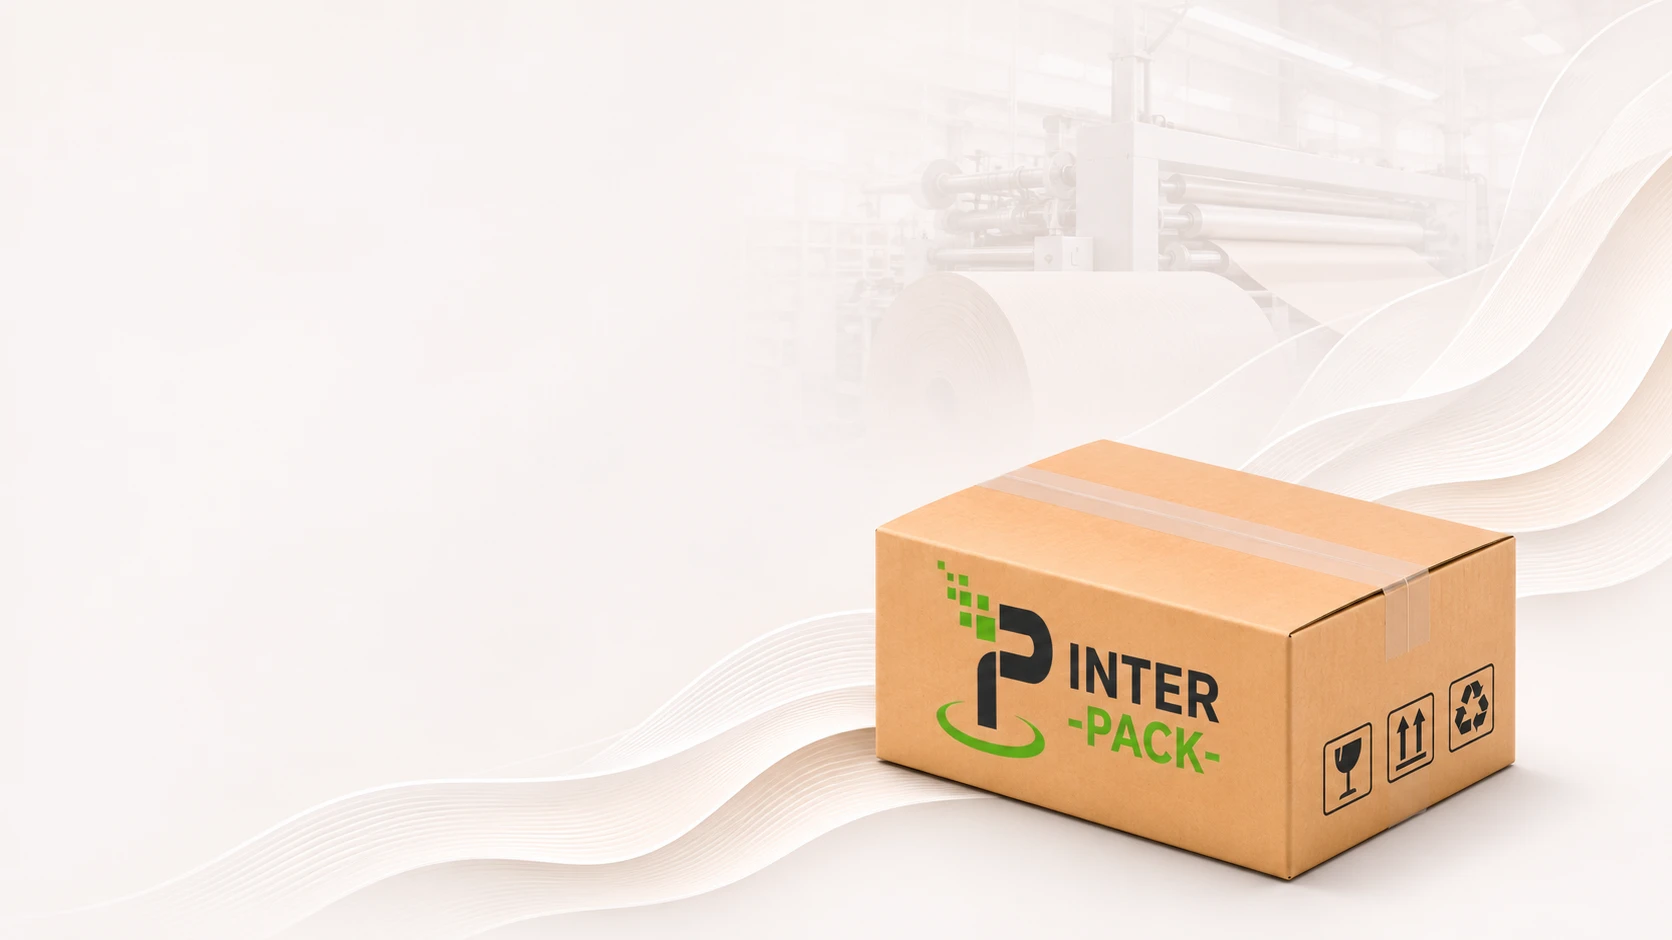
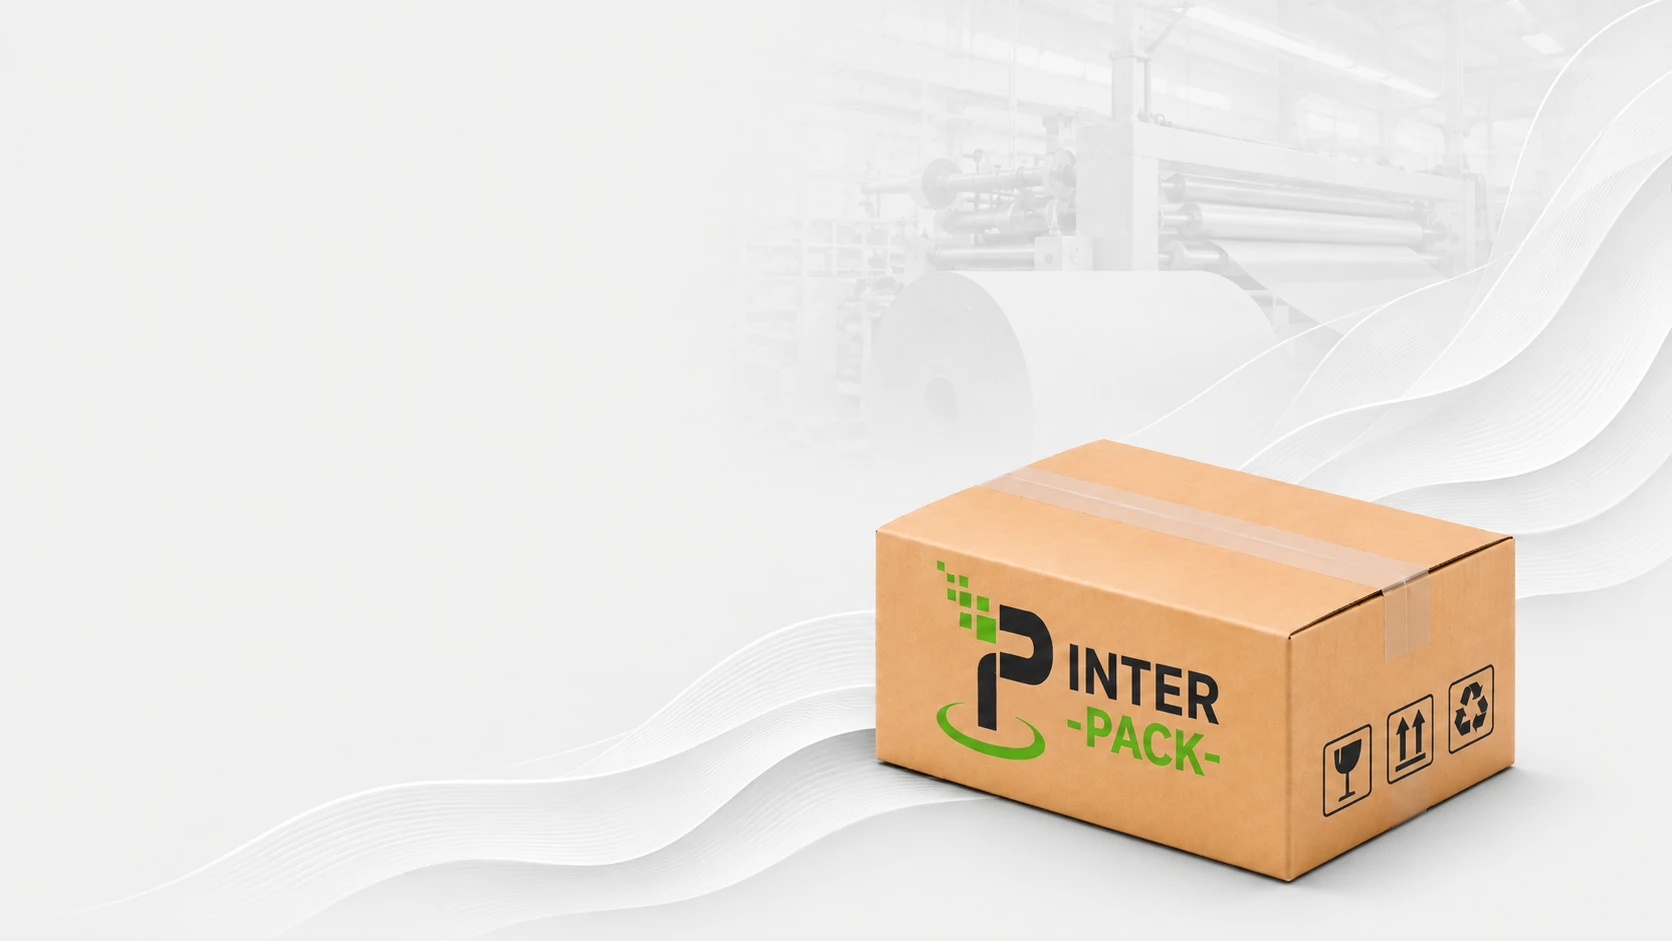
Swap home hero background to grayscale box/factory photo
Claude-Session: https://claude.ai/code/session_01UoLkfdkL2AE7BdS2rfwpFF

diff --git a/index.html b/index.html
@@ -518,4 +518,4 @@
 <script src="js/contact-form.js?v=3"></script>
 </body>
 </html>
-<!-- branch: claude/inter-pack-website-kkgw7z, last changed by Claude: 2026-11-05 20:20 (Tashkent time, UTC+5) -->
+<!-- branch: claude/inter-pack-website-kkgw7z, last changed by Claude: 2026-11-05 20:26 (Tashkent time, UTC+5) -->
